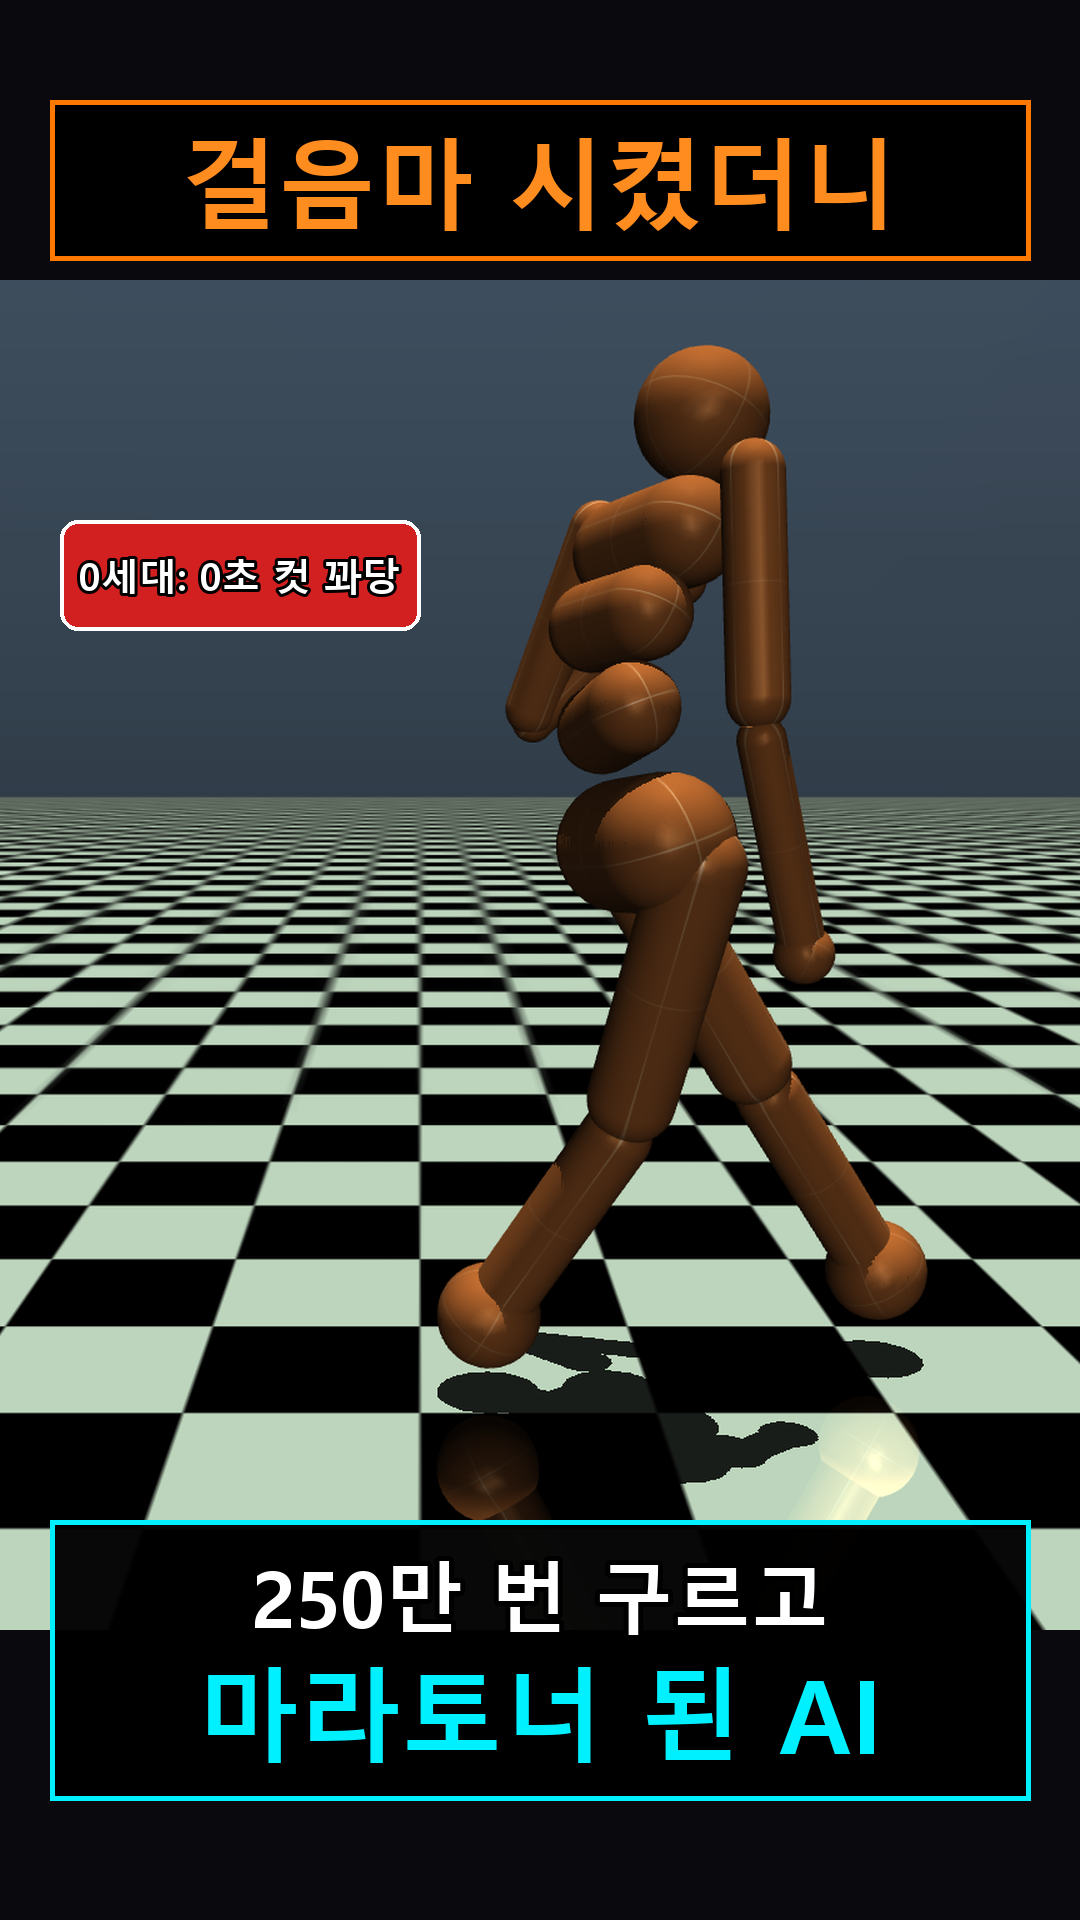
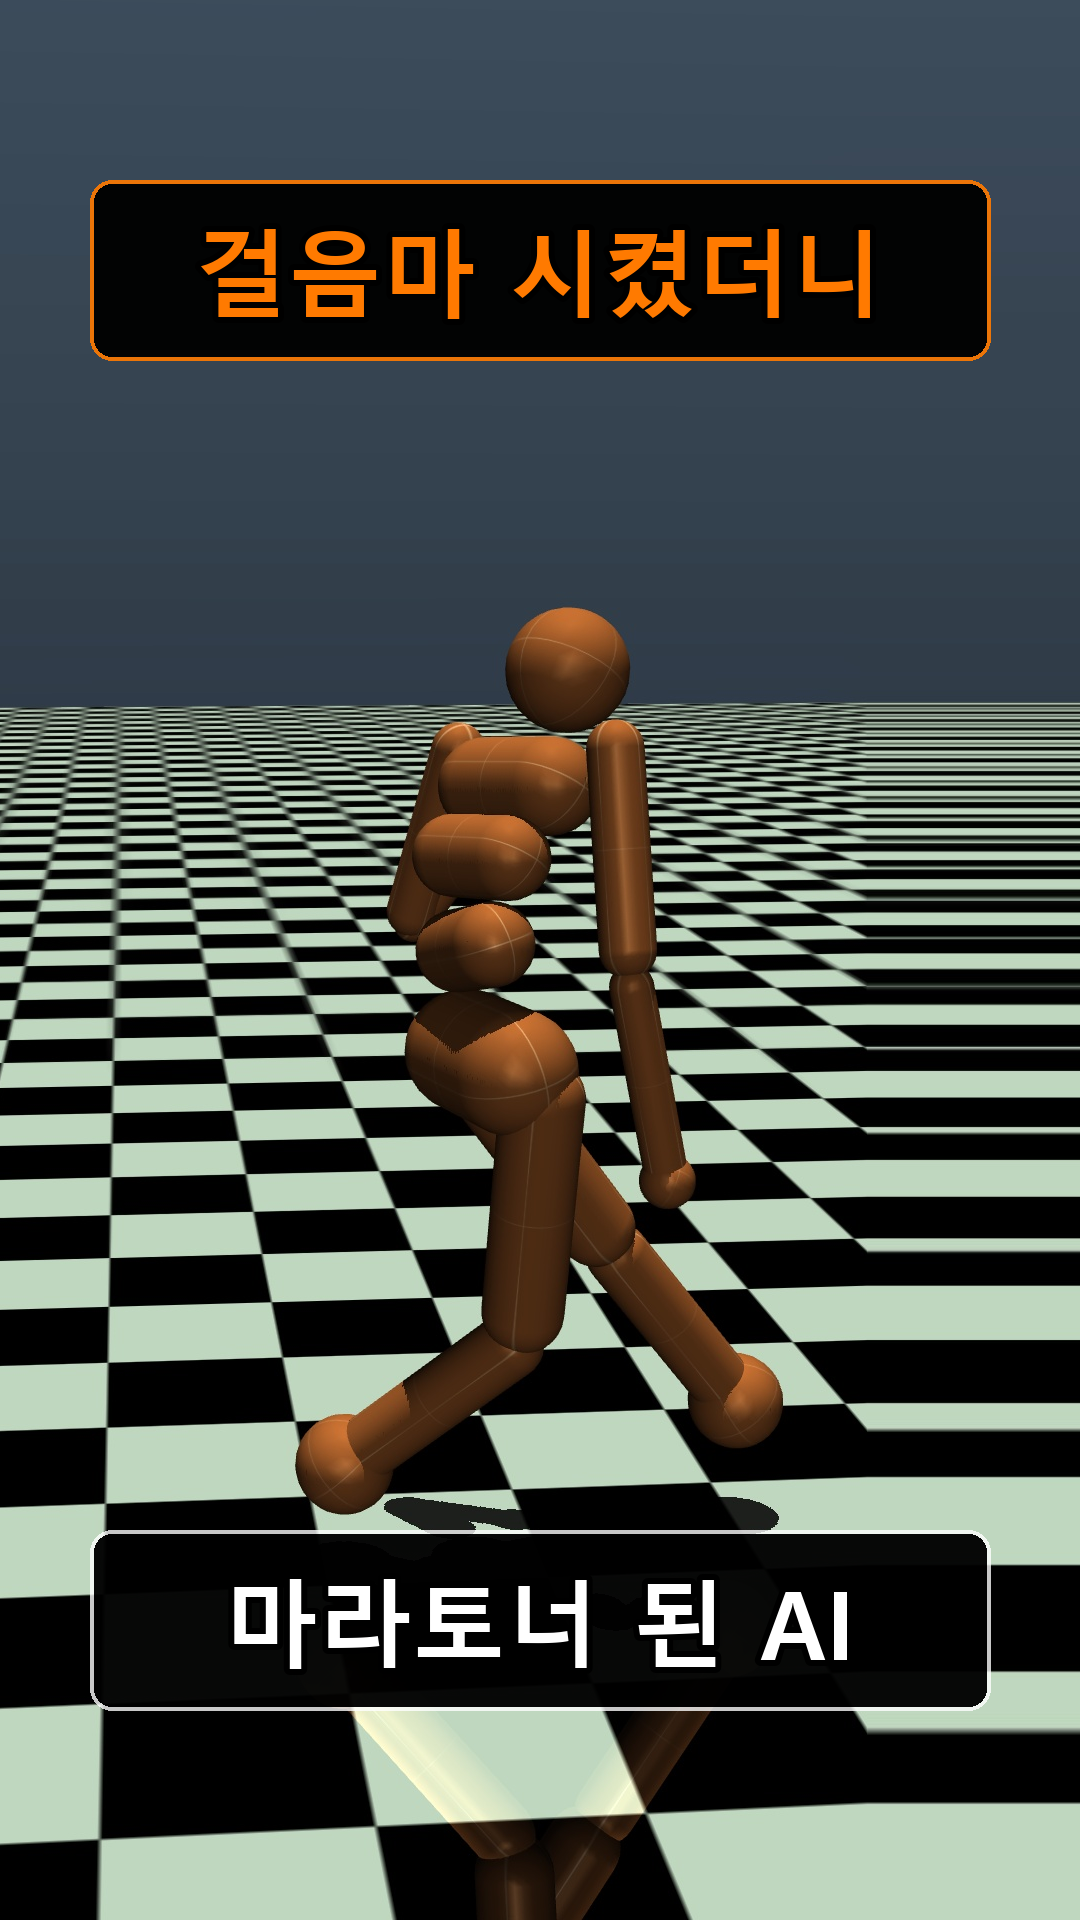
fix: perfectly safe top/bottom margins and seamless 3D runner thumbnail

diff --git a/generate_final_perfect_thumbnail.py b/generate_final_perfect_thumbnail.py
@@ -1,0 +1,89 @@
+import os
+import cv2
+import numpy as np
+from PIL import Image, ImageDraw, ImageFont
+
+FONT_BOLD = "C:/Windows/Fonts/malgunbd.ttf"
+
+def get_font(size):
+    return ImageFont.truetype(FONT_BOLD, size)
+
+def draw_stroke_text(draw, pos, text, font, fill_color, stroke_color=(0, 0, 0), stroke_width=5, anchor="mm"):
+    x, y = pos
+    draw.text((x, y), text, font=font, fill=fill_color, stroke_width=stroke_width, stroke_fill=stroke_color, anchor=anchor)
+
+def make_perfect_thumbnail():
+    print("🚀 [유튜브 쇼츠 완벽 규격 썸네일 생성 시작]...")
+    
+    # 1. Load native 1080x1920 stride frame (step 28)
+    frame = cv2.imread("stride_frame_28.jpg")
+    h, w, _ = frame.shape  # 1920, 1080
+    
+    # Character center_x in step 28 was 752.
+    # We want it at x = 540 (exact center of 1080 width).
+    # Shift = 540 - 752 = -212 px
+    shift_x = -212
+    M = np.float32([[1, 0, shift_x], [0, 1, 0]])
+    shifted = cv2.warpAffine(frame, M, (w, h), borderMode=cv2.BORDER_REPLICATE)
+    
+    # Convert to PIL
+    canvas = Image.fromarray(cv2.cvtColor(shifted, cv2.COLOR_BGR2RGB))
+    
+    # 2. Text Boxes with Precise Margins
+    # Top Margin: 180px
+    # Top Box Height: 180px (Y: 180 .. 360)
+    # Character Head is around Y: 607 (Breathing room = 247px)
+    # Character Feet are around Y: 1449
+    # Bottom Box Height: 180px (Y: 1530 .. 1710)
+    # Bottom Margin: 210px (Safe from YouTube Shorts UI cutoff of 250px and Shelf crop)
+    
+    overlay = Image.new("RGBA", (w, h), (0, 0, 0, 0))
+    ov_draw = ImageDraw.Draw(overlay)
+    
+    box_w = 900
+    box_x1 = (w - box_w) // 2
+    box_x2 = box_x1 + box_w
+    
+    # --- Top Box ---
+    top_y1, top_y2 = 180, 360
+    # Clean black box with subtle orange border (exact vibe of '걸음마 포기하고')
+    ov_draw.rounded_rectangle([box_x1, top_y1, box_x2, top_y2], radius=22, 
+                               fill=(0, 0, 0, 245), outline=(255, 122, 0, 230), width=4)
+    
+    # --- Bottom Box ---
+    bot_y1, bot_y2 = 1530, 1710
+    # Clean black box with subtle white border (exact vibe of '롤러를 선택한 AI')
+    ov_draw.rounded_rectangle([box_x1, bot_y1, box_x2, bot_y2], radius=22, 
+                               fill=(0, 0, 0, 245), outline=(255, 255, 255, 200), width=4)
+    
+    canvas = Image.alpha_composite(canvas.convert("RGBA"), overlay).convert("RGB")
+    draw = ImageDraw.Draw(canvas)
+    
+    # --- Text Rendering ---
+    f_title = get_font(94)
+    
+    # Top Text: '걸음마 시켰더니' (Bright vibrant orange #FF7A00)
+    top_text_y = (top_y1 + top_y2) // 2
+    draw_stroke_text(draw, (w // 2, top_text_y), "걸음마 시켰더니", f_title, 
+                     fill_color=(255, 122, 0), stroke_color=(0, 0, 0), stroke_width=6)
+    
+    # Bottom Text: '마라토너 된 AI' (Pure clean white #FFFFFF)
+    bot_text_y = (bot_y1 + bot_y2) // 2
+    draw_stroke_text(draw, (w // 2, bot_text_y), "마라토너 된 AI", f_title, 
+                     fill_color=(255, 255, 255), stroke_color=(0, 0, 0), stroke_width=6)
+    
+    # Save the master final files
+    canvas.save("thumbnail_shorts_perfect_safe.png", quality=98)
+    canvas.save("thumbnail_shorts_channel_style.png", quality=98)
+    canvas.save("thumbnail_shorts_split_9x16.png", quality=98)
+    print("Master thumbnail saved to thumbnail_shorts_channel_style.png!")
+    
+    # Generate Shelf Preview (Simulating YouTube Grid 1:1.55 display)
+    crop_shelf_h = 1675
+    crop_top = (h - crop_shelf_h) // 2
+    shelf_preview = canvas.crop((0, crop_top, w, crop_top + crop_shelf_h))
+    shelf_preview.save("preview_youtube_shelf_crop.png")
+    print(f"Simulated shelf crop saved: preview_youtube_shelf_crop.png (Top margin: {top_y1 - crop_top}px, Bot margin: {crop_top + crop_shelf_h - bot_y2}px)")
+
+if __name__ == "__main__":
+    make_perfect_thumbnail()
